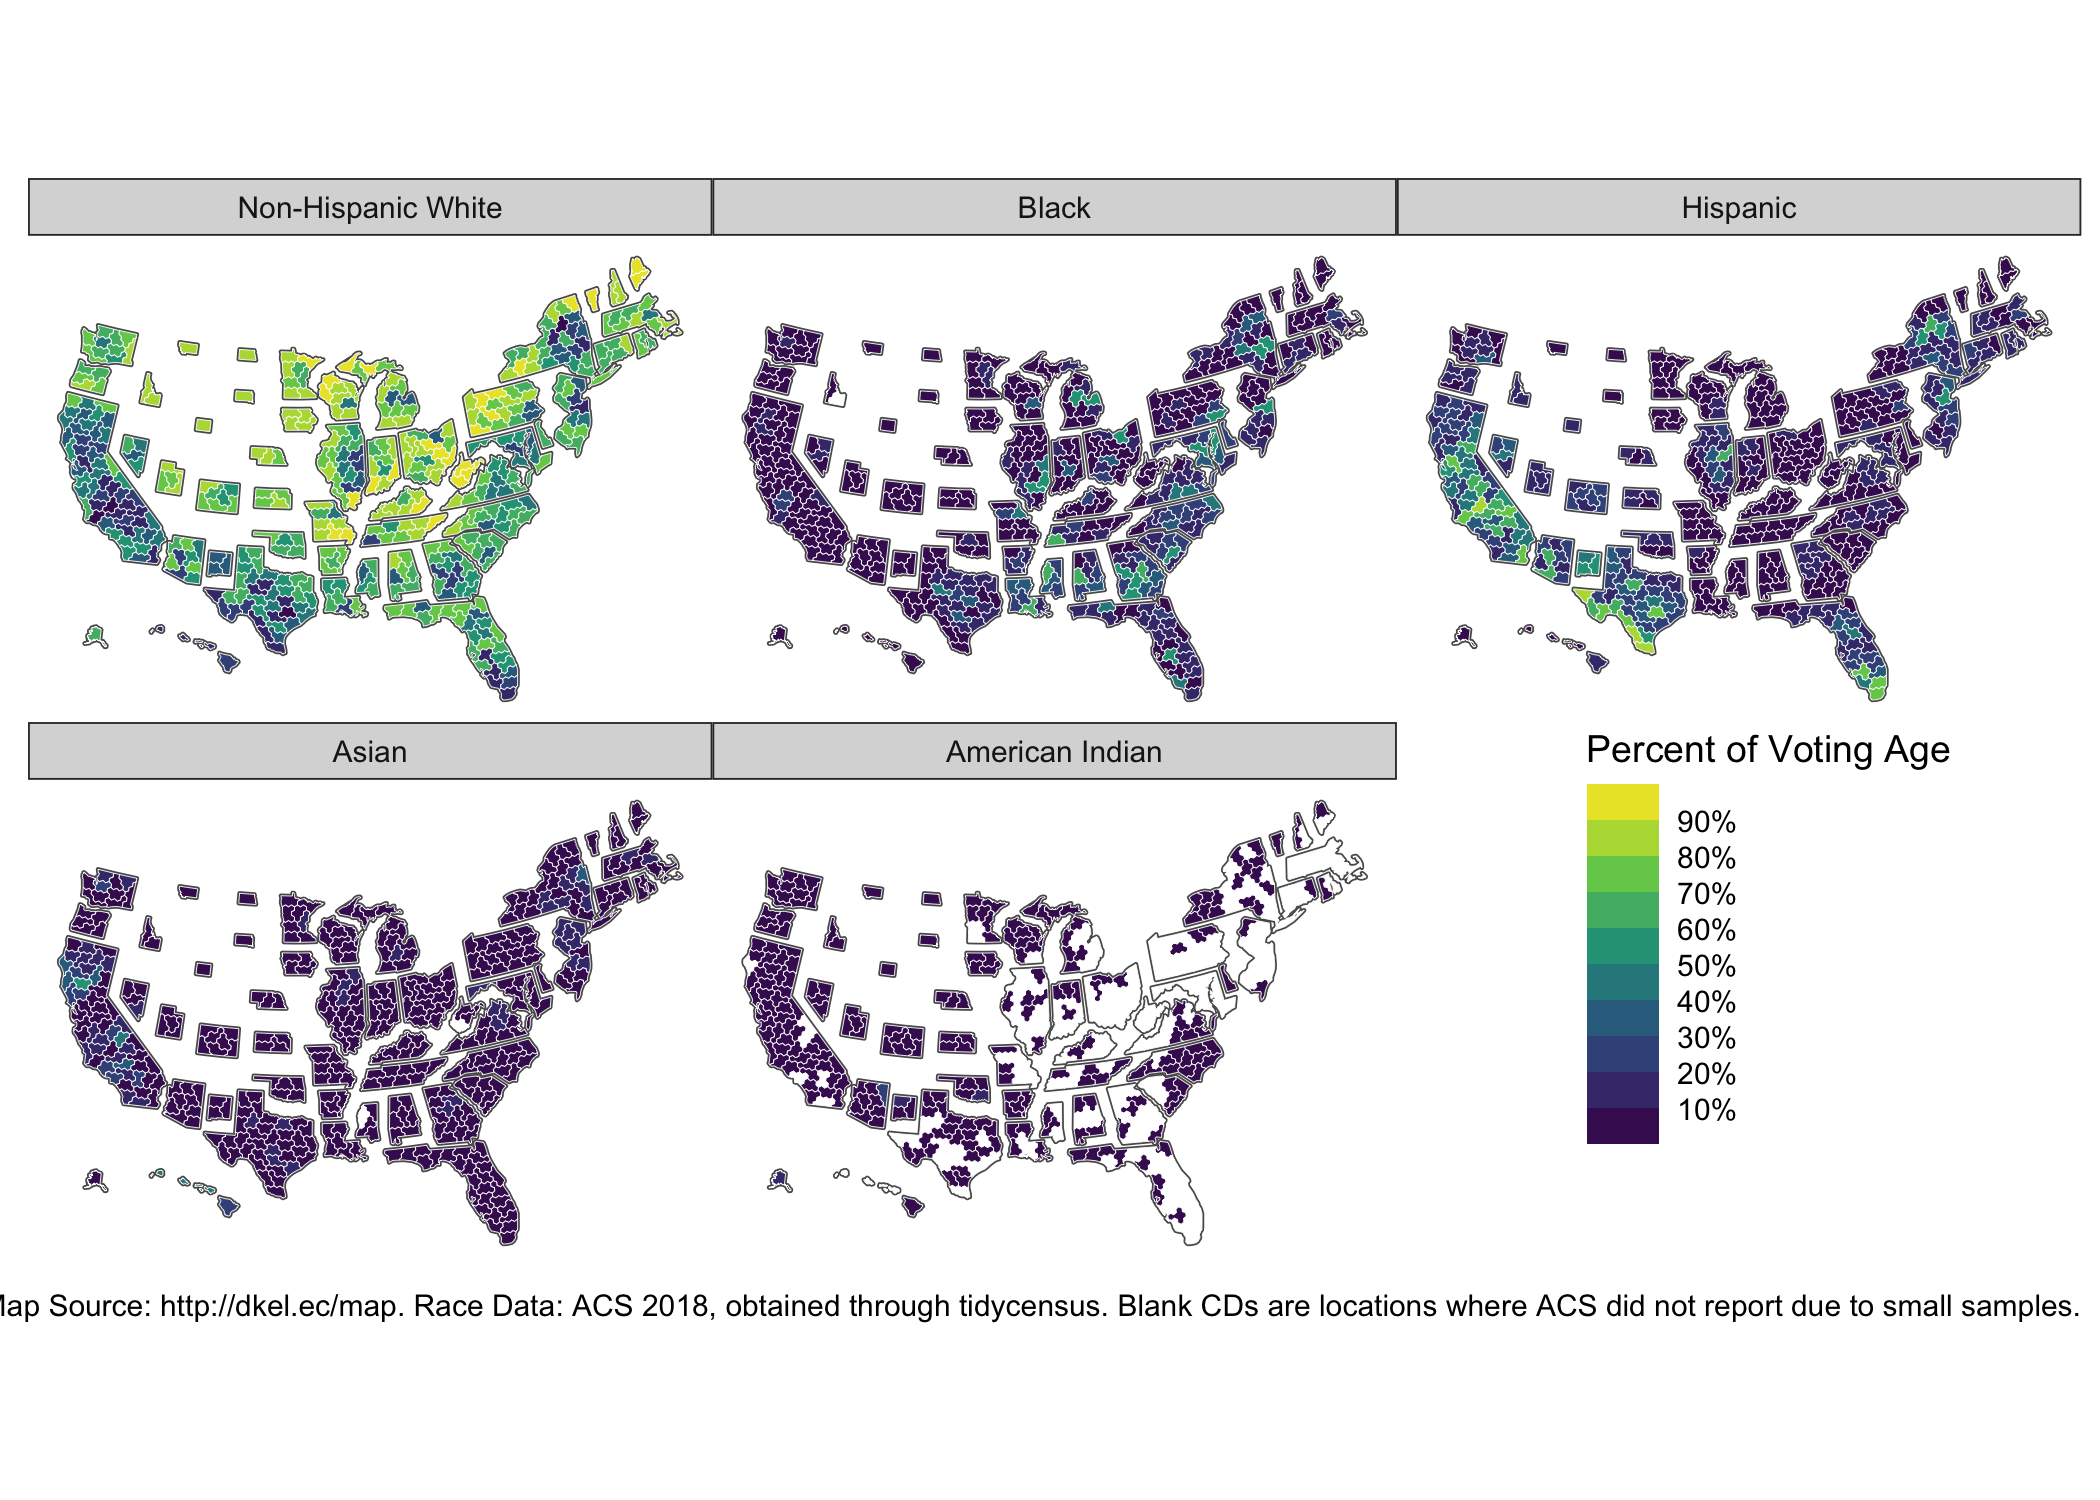
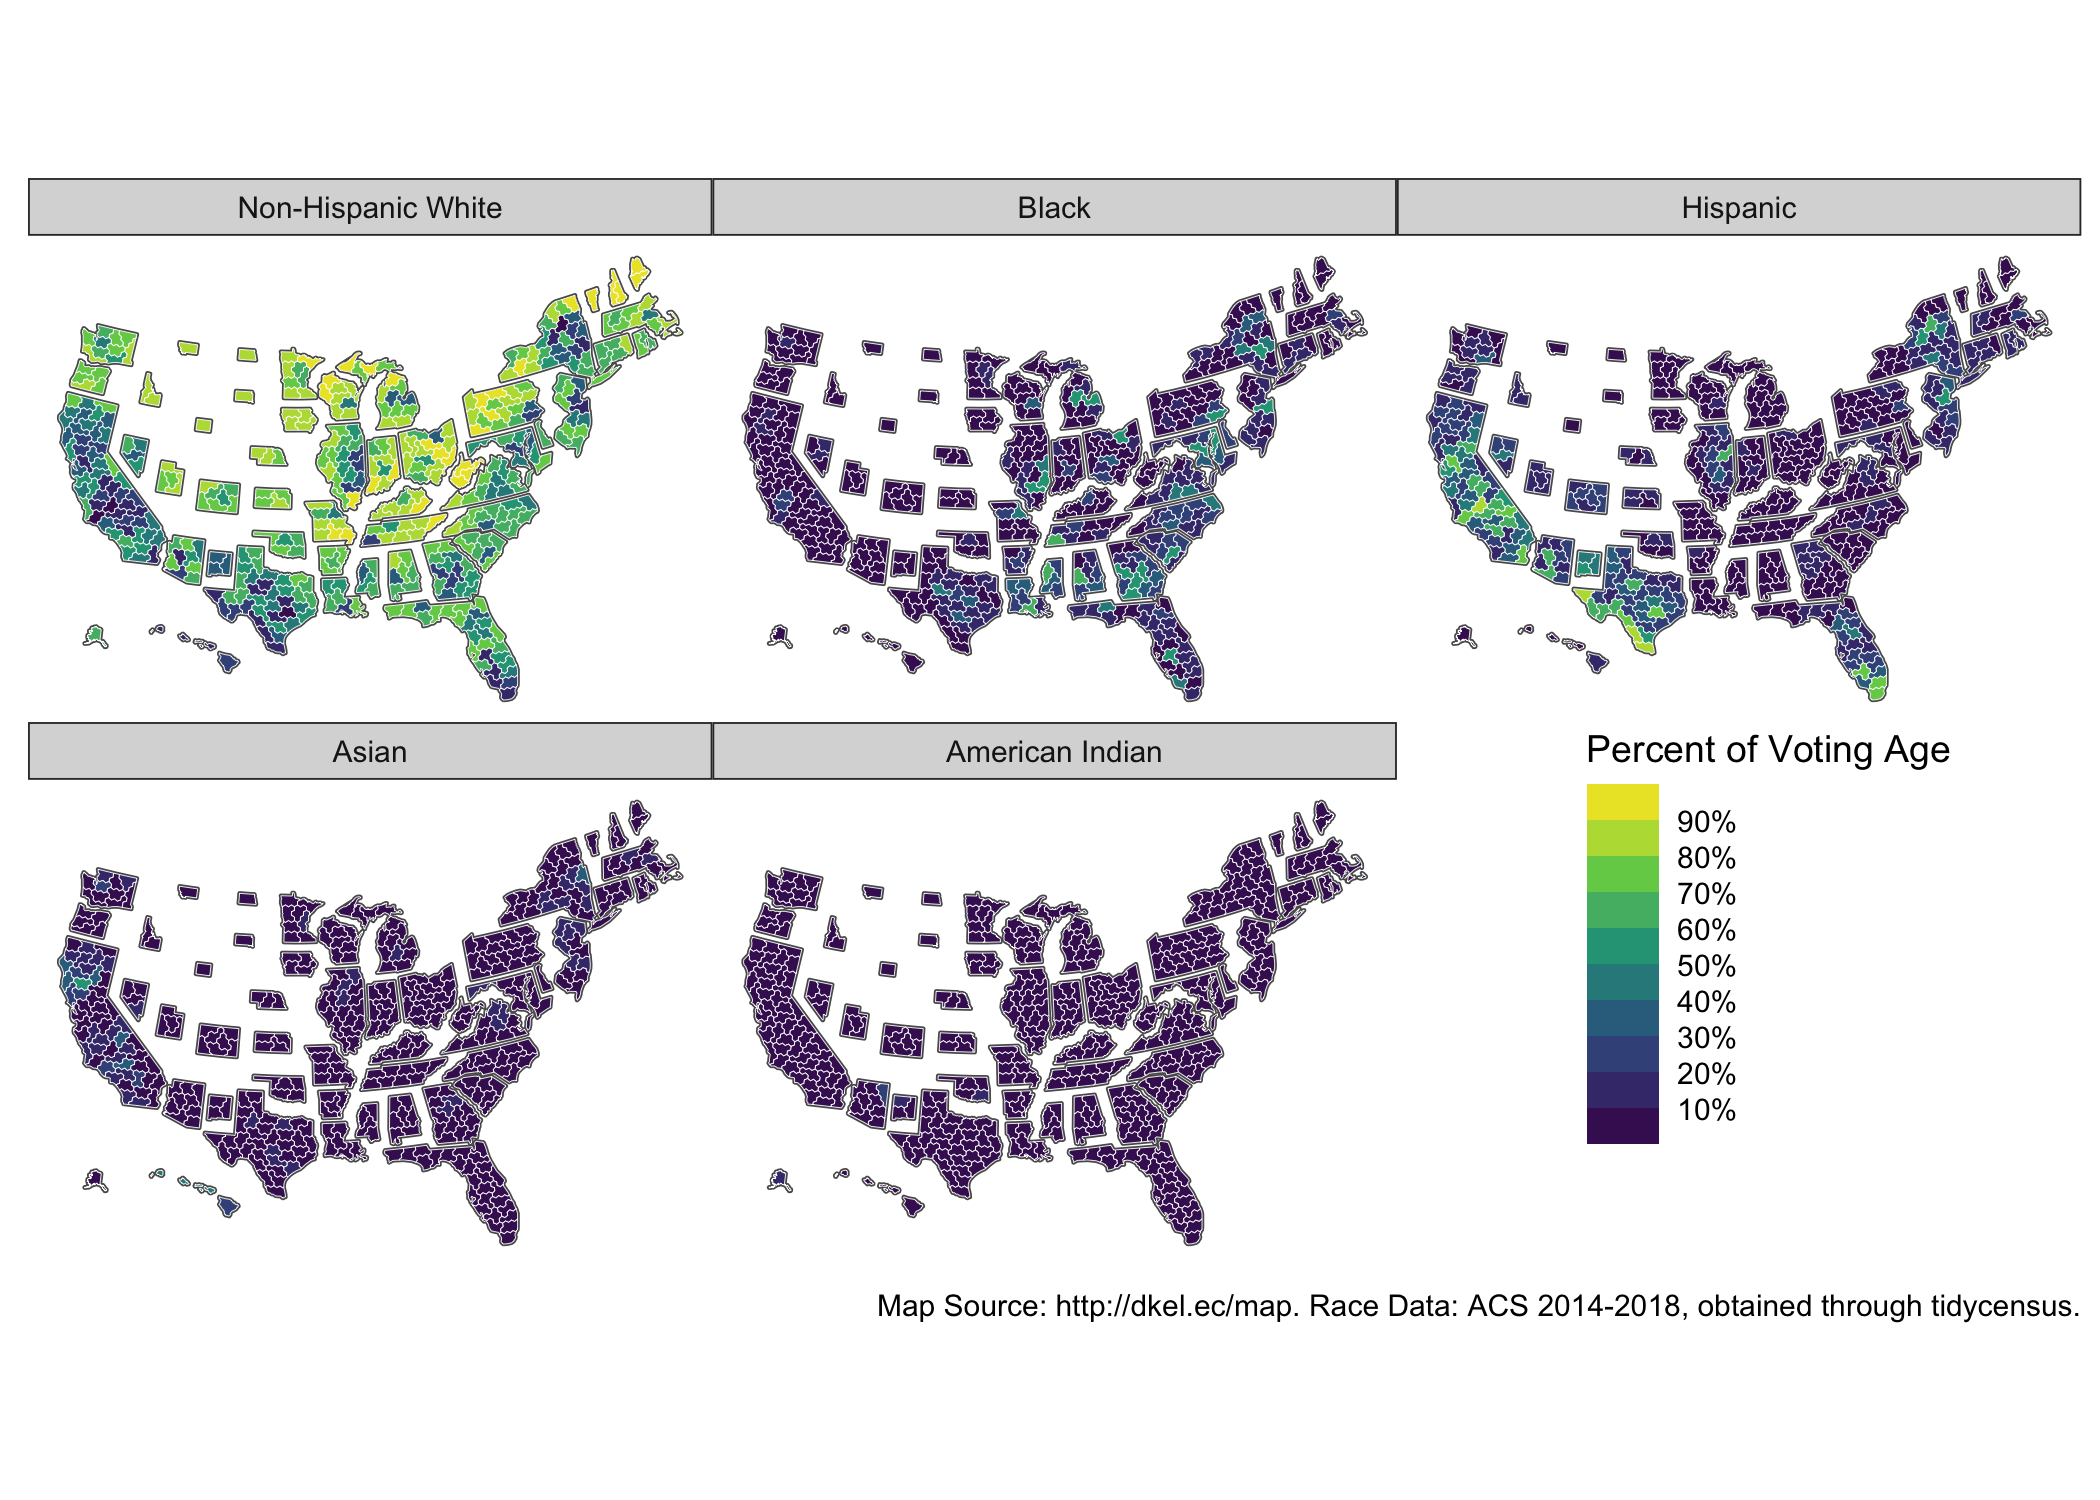
Update with ACS 5 year

diff --git a/README.md b/README.md
@@ -52,7 +52,7 @@ ggplot(cd_race) +
     labels = percent_format(accuracy = 1)) +
   facet_wrap(~ race) +
   theme_map() +
-  labs(caption = "Map Source: http://dkel.ec/map. Race Data: ACS 2018, obtained through tidycensus. Blank CDs are locations where ACS did not report due to small samples.") +
+  labs(caption = "Map Source: http://dkel.ec/map. Race Data: ACS 2014-2018, obtained through tidycensus.") +
   theme(legend.position = c(0.75, 0.1))
 ```
 
